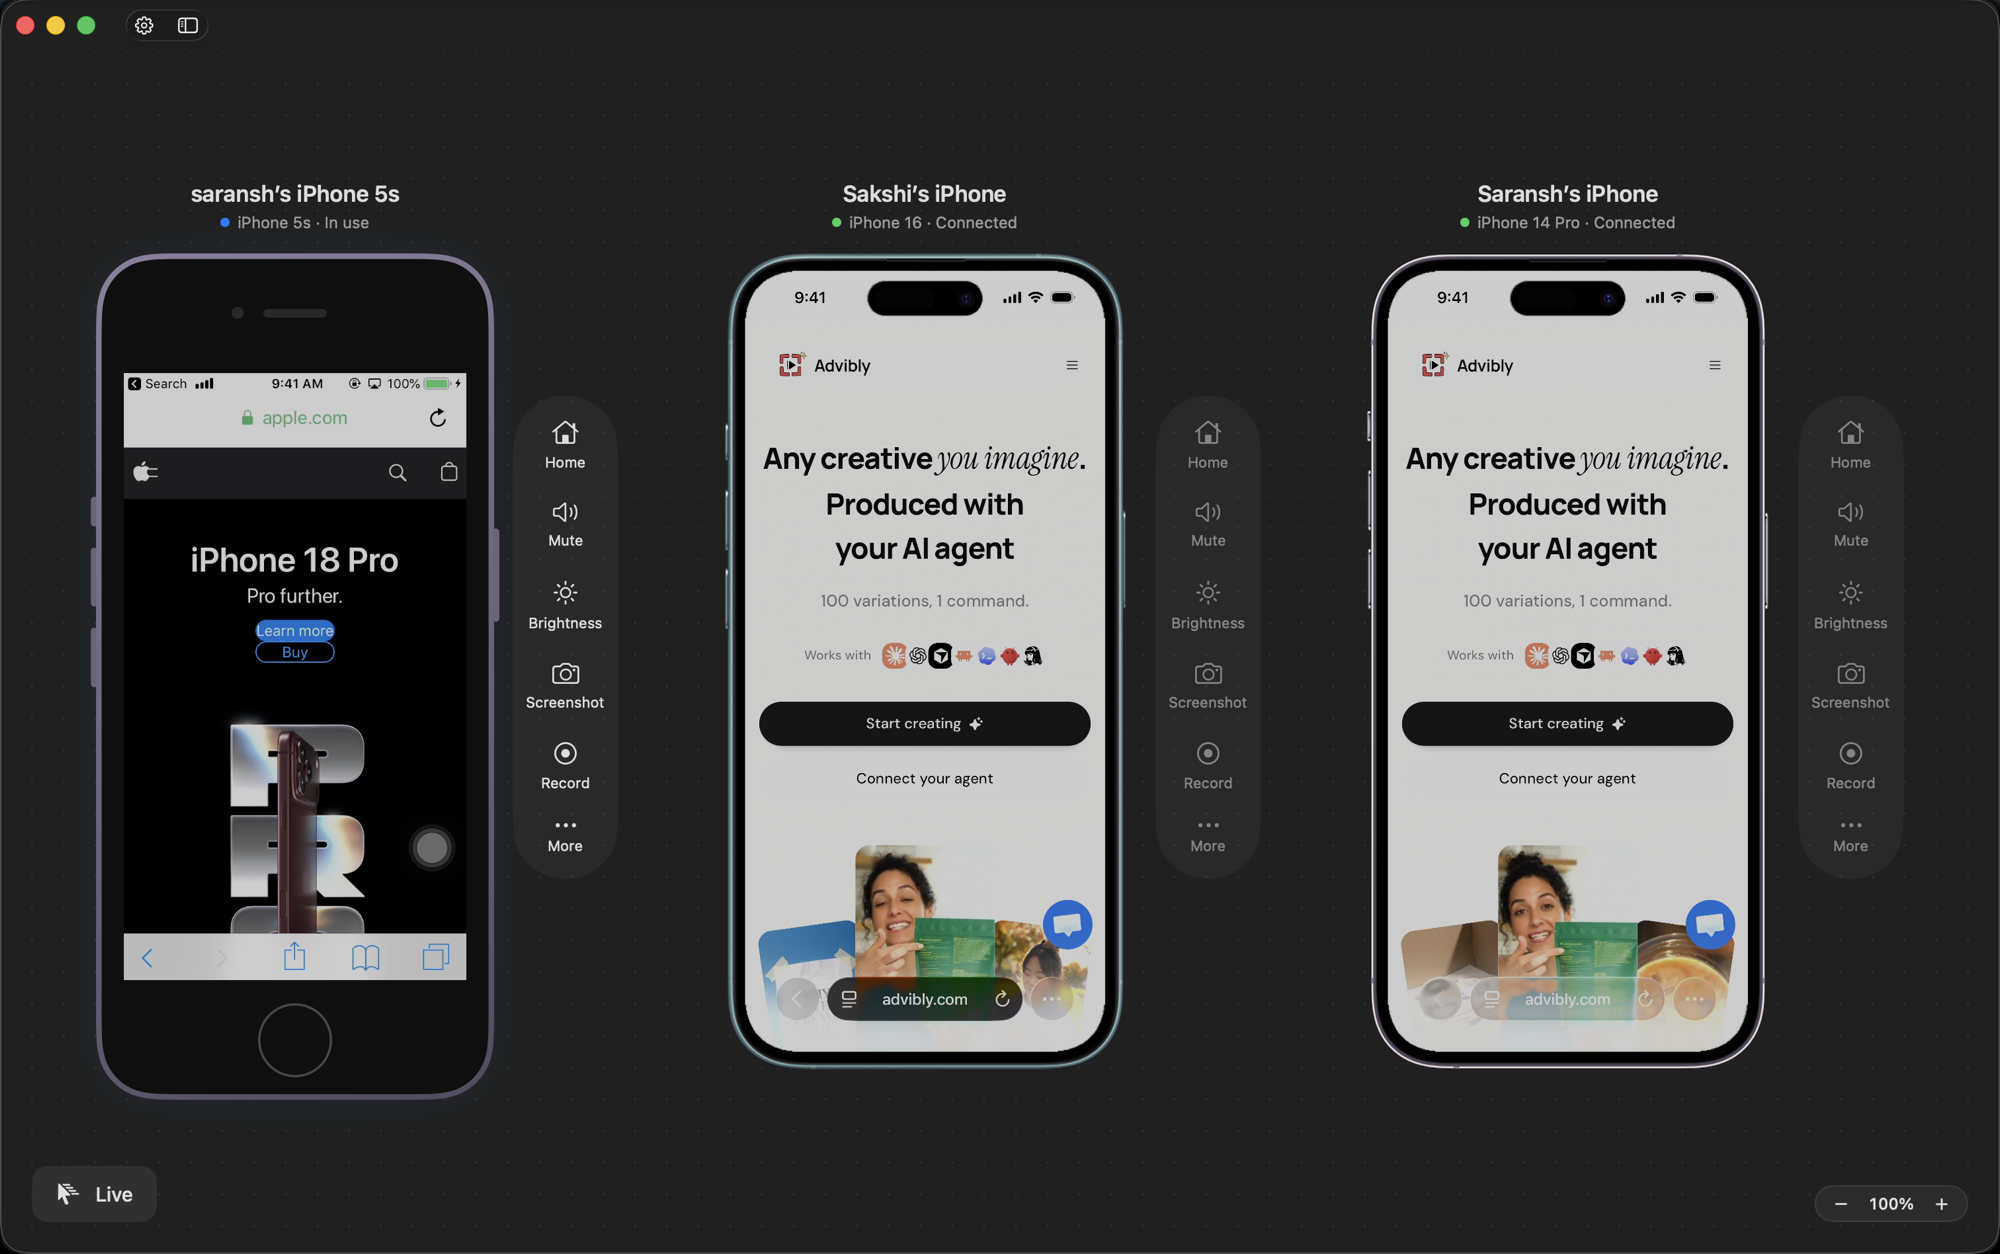
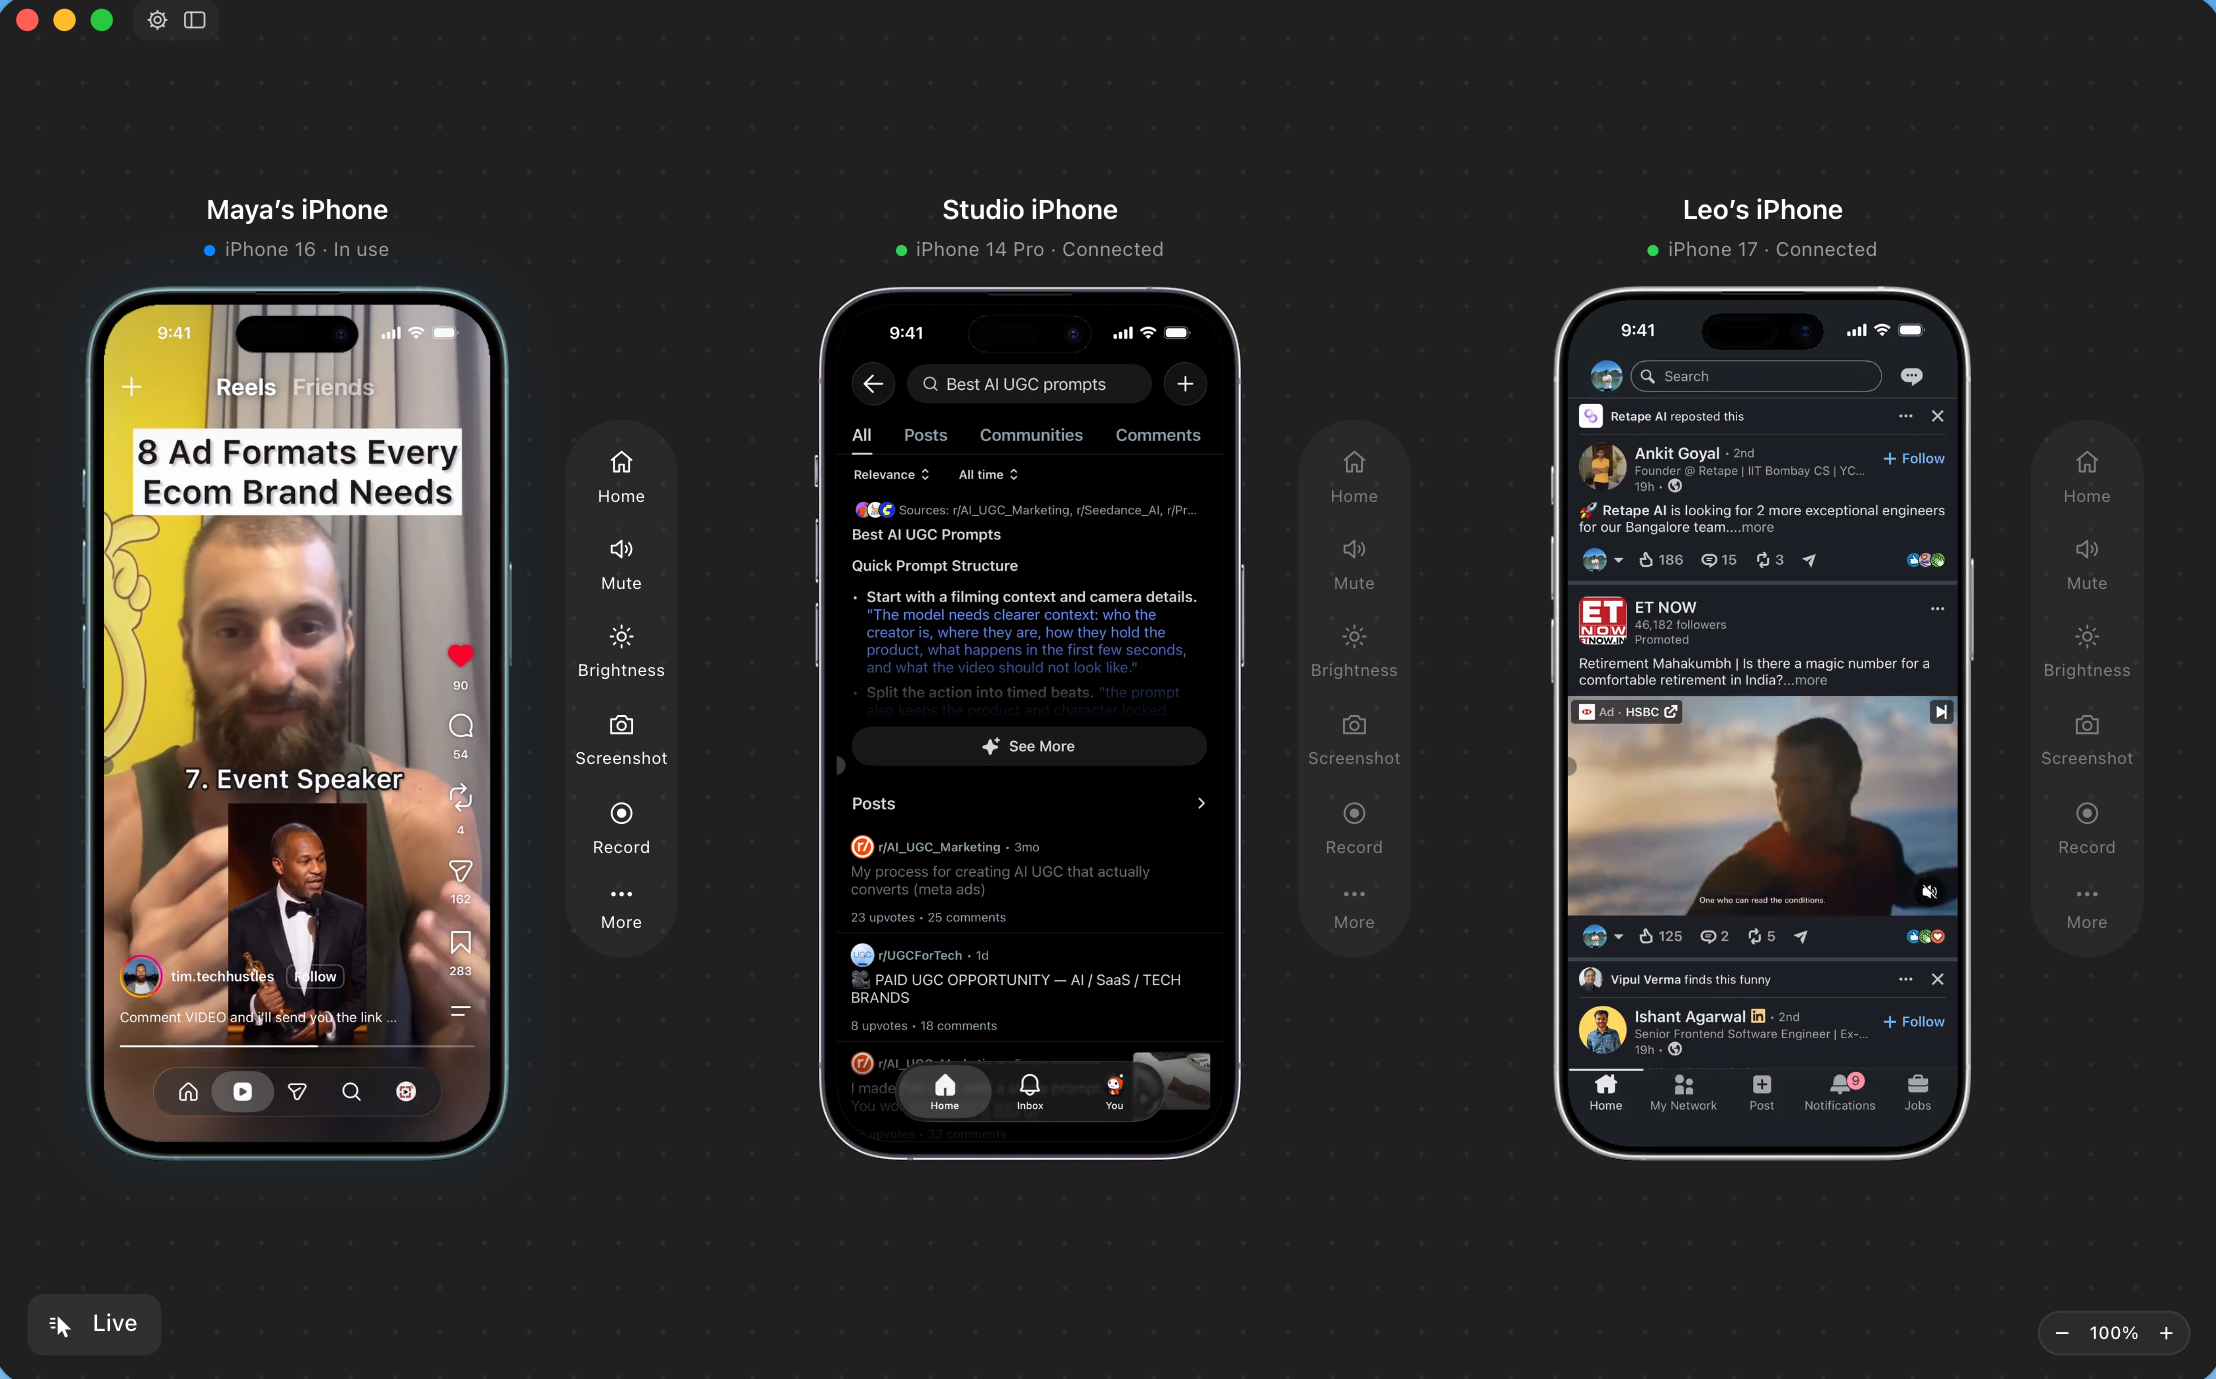
README: sharper app screenshot

diff --git a/README.md b/README.md
@@ -24,7 +24,7 @@
 ---
 
 <p align="center">
-  <img src=".github/assets/app.png" alt="The Zeptap app on a Mac, showing three connected iPhones live with Home, Mute, Brightness, Screenshot and Record controls" width="100%">
+  <img src=".github/assets/app.png" alt="Zeptap on a Mac driving three iPhones at once: Instagram, Reddit and LinkedIn, each with Home, Mute, Brightness, Screenshot and Record controls" width="100%">
 </p>
 
 ## What it is
